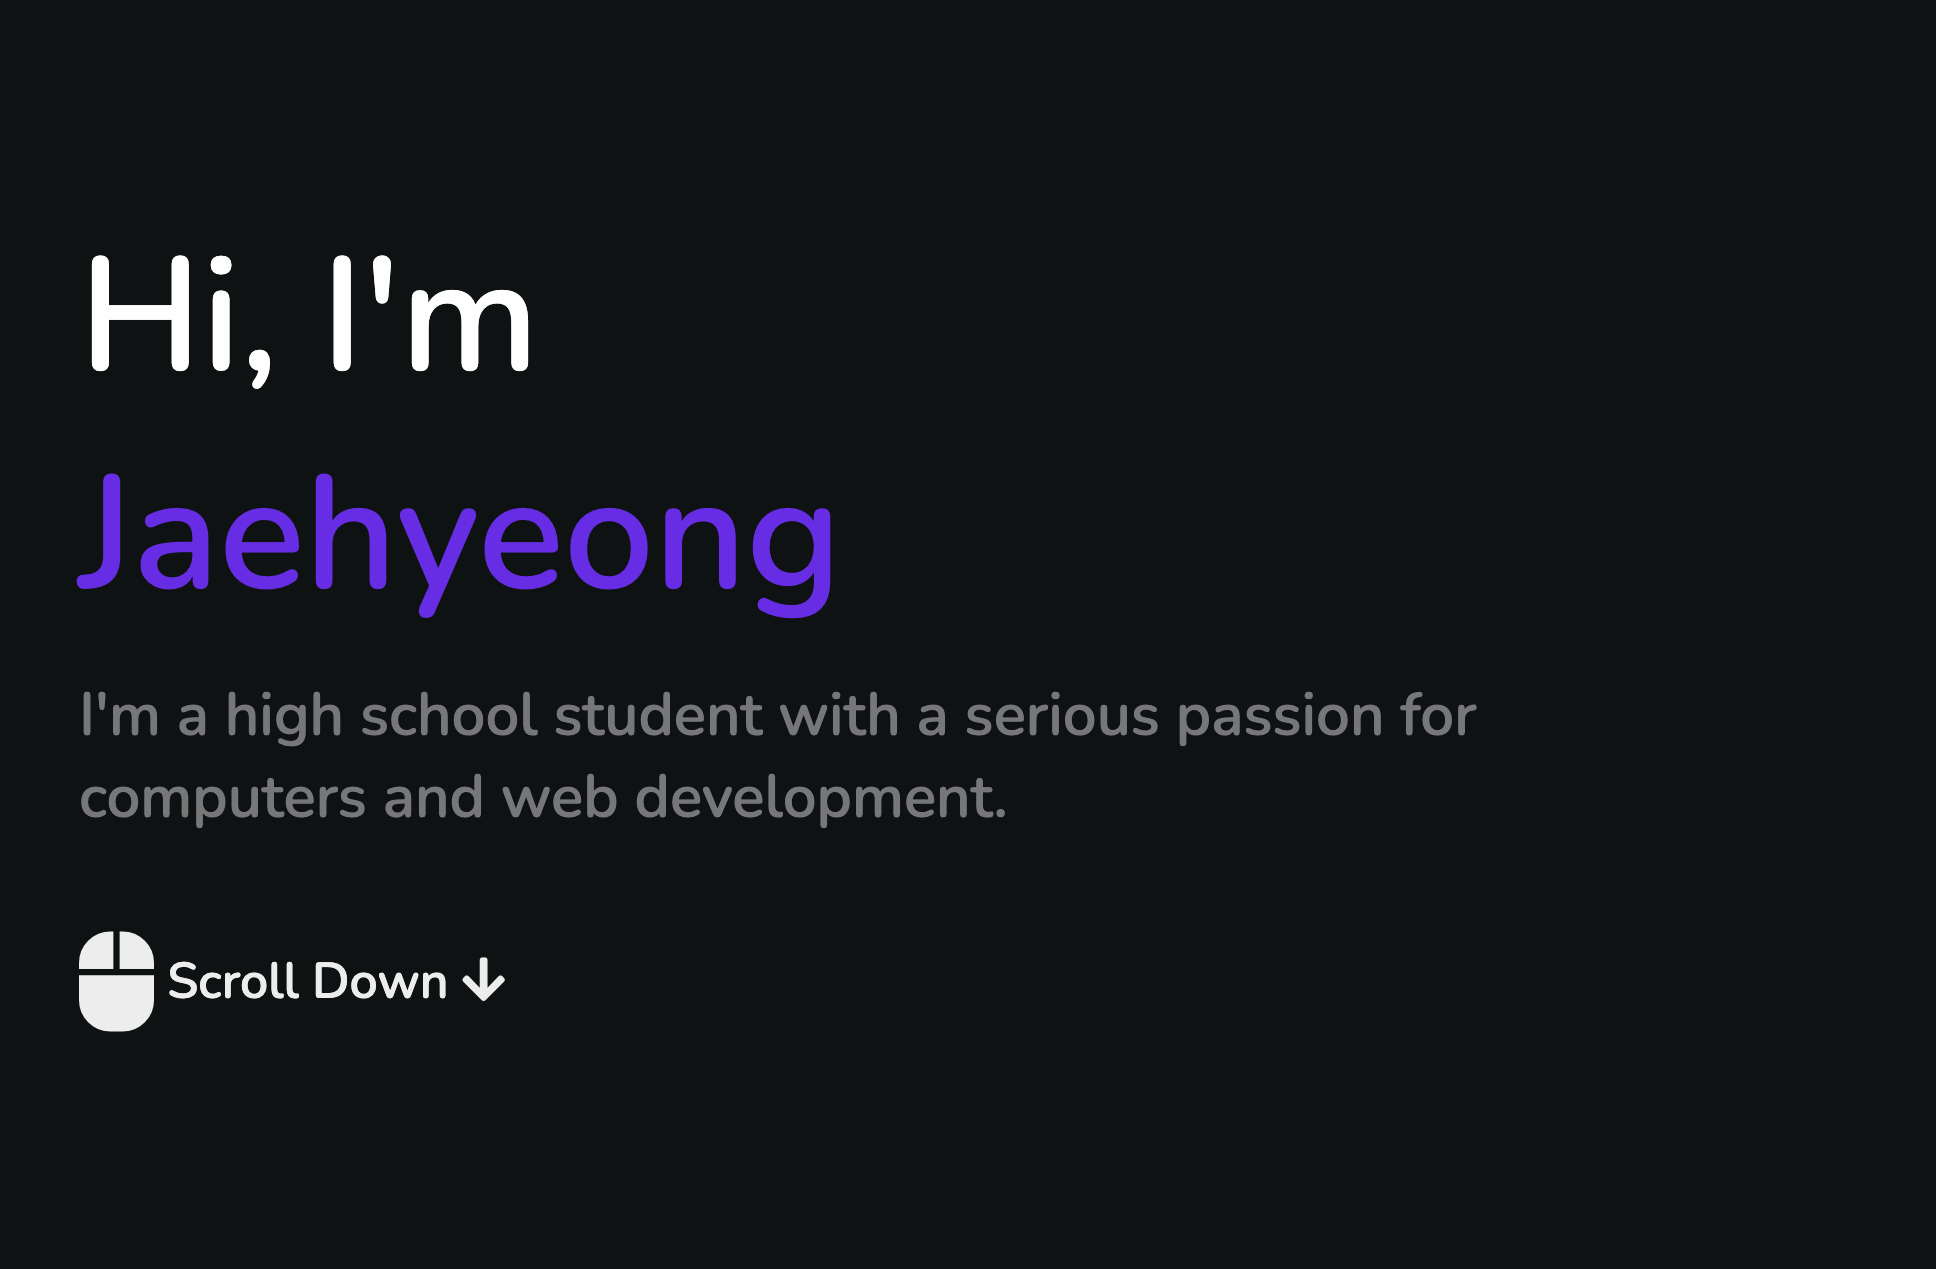
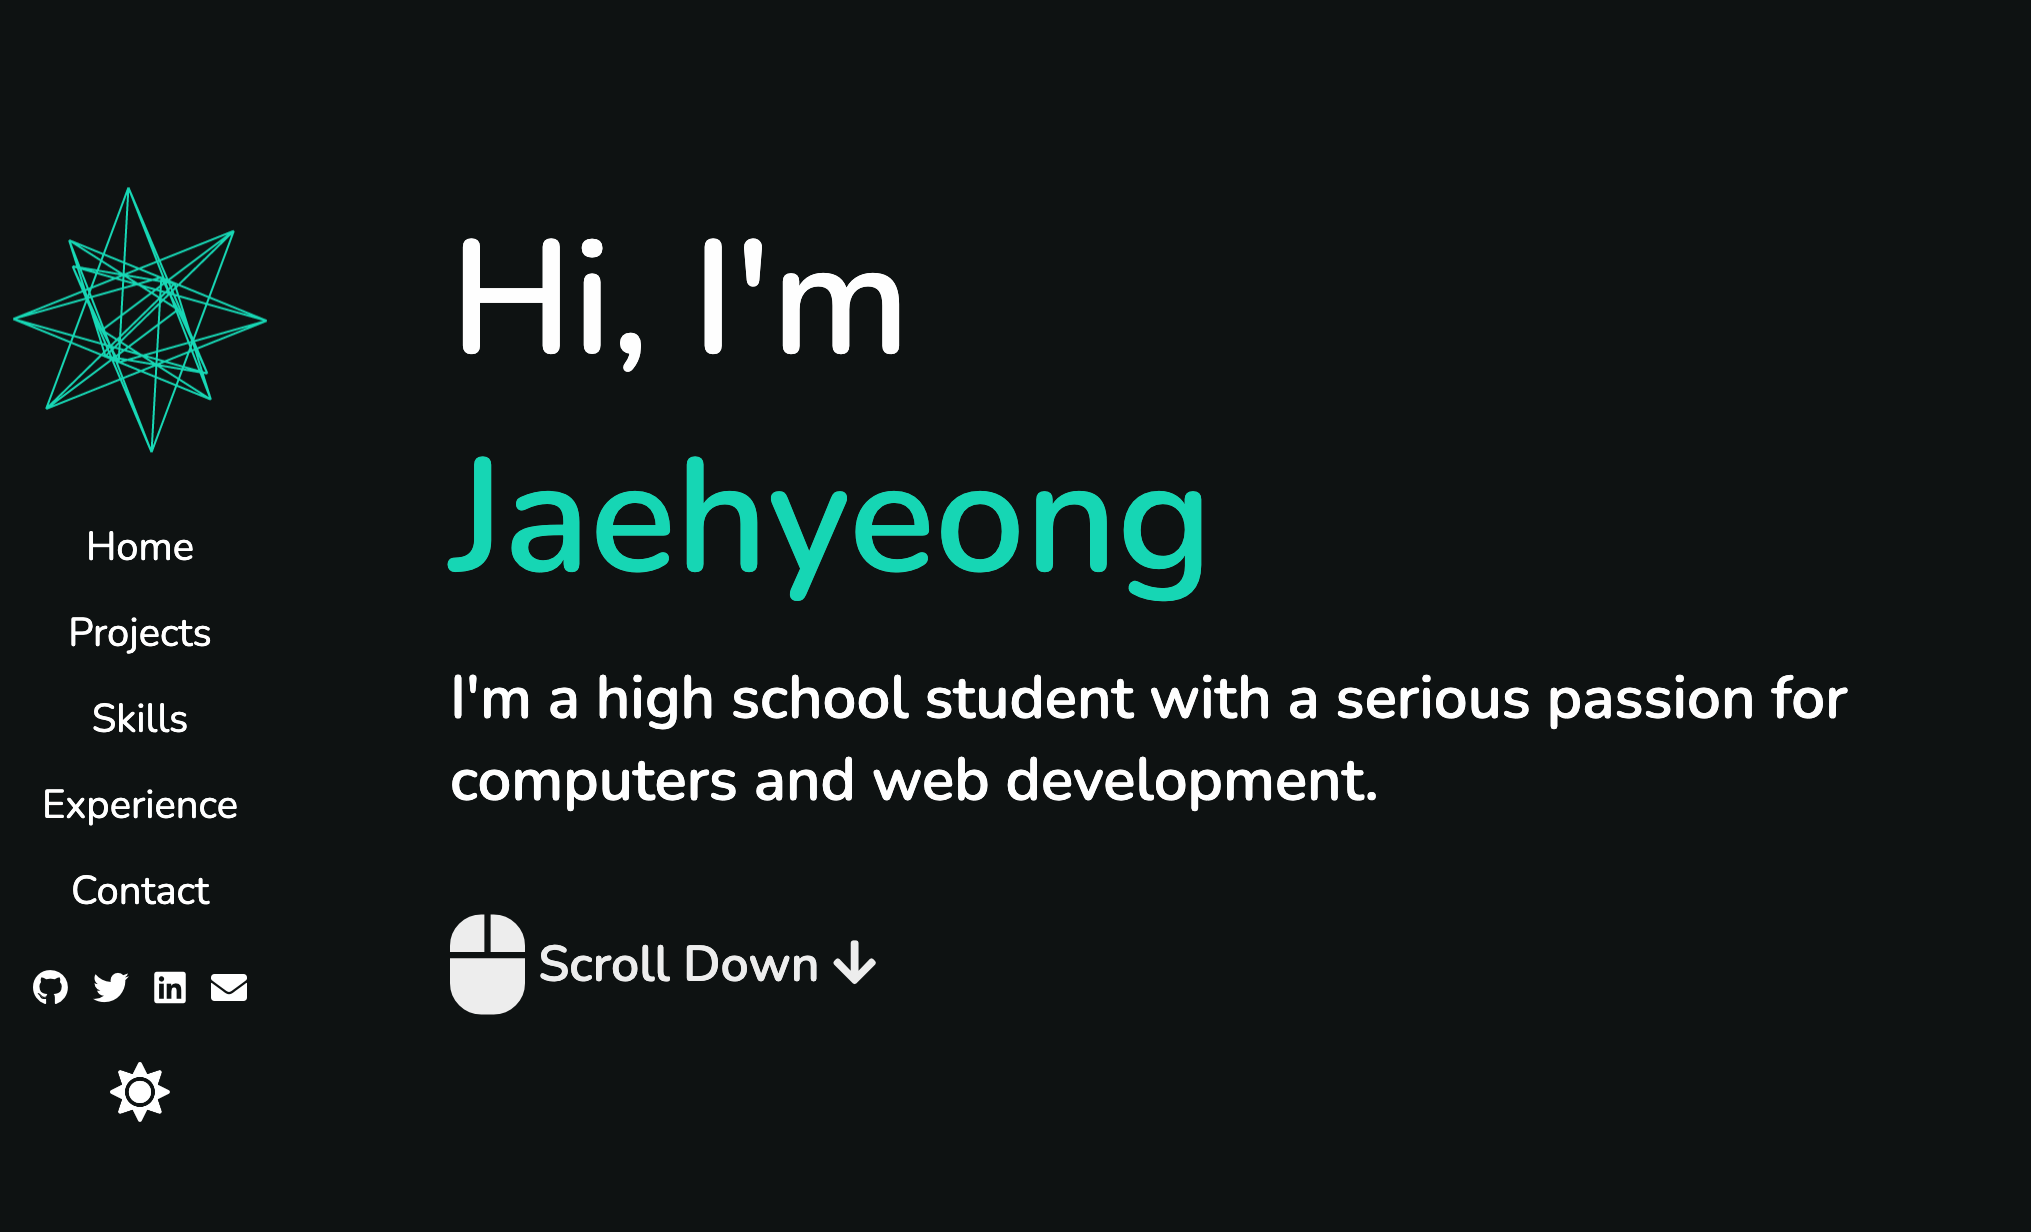
Color change

diff --git a/index.html b/index.html
@@ -11,7 +11,7 @@
   <script src="https://cdnjs.cloudflare.com/ajax/libs/jquery/3.6.0/jquery.min.js"></script>
   <link rel="stylesheet" href="https://cdnjs.cloudflare.com/ajax/libs/tiny-slider/2.9.4/tiny-slider.css">
   <script src="https://cdnjs.cloudflare.com/ajax/libs/tiny-slider/2.9.4/min/tiny-slider.js"></script>
-  <link rel="icon" href="images/user/favicon-purple.png">
+  <link rel="icon" href="images/user/favicon-green.png">
 </head>
 
 <div id="loader-wrapper">
@@ -108,7 +108,7 @@
             <li>
               <a href="#home">
                 <div class="box website">
-                  <img src="images/projects/view-project-purple.png">
+                  <img src="images/projects/view-project-green.png">
                 </div>
               </a>
               <br>
@@ -121,7 +121,7 @@
             <li>
               <a href="https://github.com/JaehyeongPark06/Edit-History-Bot" target="_blank">
                 <div class="box edit">
-                  <img src="images/projects/view-project-purple.png">
+                  <img src="images/projects/view-project-green.png">
                 </div>
               </a>
               <br>
@@ -133,7 +133,7 @@
             <li>
               <a href="https://jaehyeong-weather-app.netlify.app" target="_blank">
                 <div class="box weather">
-                  <img src="images/projects/view-project-purple.png">
+                  <img src="images/projects/view-project-green.png">
                 </div>
               </a>
               <br>
@@ -146,7 +146,7 @@
             <li>
               <a href="https://github.com/JaehyeongPark06/Auto-Clicker" target="_blank">
                 <div class="box auto">
-                  <img src="images/projects/view-project-purple.png">
+                  <img src="images/projects/view-project-green.png">
                 </div>
               </a>
               <br>
@@ -158,7 +158,7 @@
             <li>
               <a href="https://github.com/JaehyeongPark06/Tetris-In-Pygame" target="_blank">
                 <div class="box tetris">
-                  <img src="images/projects/view-project-purple.png">
+                  <img src="images/projects/view-project-green.png">
                 </div>
               </a>
               <br>
@@ -170,7 +170,7 @@
             <li>
               <a href="https://github.com/JaehyeongPark06/ICS2O1-Summative" target="_blank">
                 <div class="box shield">
-                  <img src="images/projects/view-project-purple.png">
+                  <img src="images/projects/view-project-green.png">
                 </div>
               </a>
               <br>

diff --git a/assets/css/main.css b/assets/css/main.css
@@ -9,7 +9,7 @@
 */
 
 :root {
-    --maincolor: rgb(104, 43, 233);
+    --maincolor: #00D7B3;
     --background: #f5f5f5;
     --text: #111;
     --bars: #fff;
@@ -20,7 +20,7 @@
 }
 
 .dark-theme {
-    --maincolor: #682BE9;
+    --maincolor: #00D7B3;
     --background: #0E1212;
     --text: #fff;
     --bars: #fff;
@@ -263,7 +263,7 @@ header {
     justify-content: center;
     flex-flow: column;
     text-align: center;
-    animation: fade-right 0.5s 1.35s both;
+    animation: fade-right 0.5s 1.45s both;
 }
 
 header .navbar ul {
@@ -331,7 +331,7 @@ header .social a:hover {
 .home h4 {
     font-size: 3rem;
     color: var(--text);
-    animation: fade-up 0.5s 1.35s both;
+    animation: fade-up 0.5s 1.45s both;
     max-width: 100%;
 }
 
@@ -339,7 +339,7 @@ header .social a:hover {
     font-size: 2.5rem;
     color: var(--text2);
     padding: 4rem 0;
-    animation: fade-up 0.5s 1.35s both;
+    animation: fade-up 0.5s 1.45s both;
 }
 
 .home h2 span {

diff --git a/assets/object.js b/assets/object.js
@@ -2,7 +2,7 @@
 var canvas = document.getElementById('logo-canvas'),
 	ctx = canvas.getContext('2d'),
 	splash = document.getElementById('splash'),
-	color = "#682BE9",
+	color = "#00D7B3",
 	lasttime,
 	freeze
 
